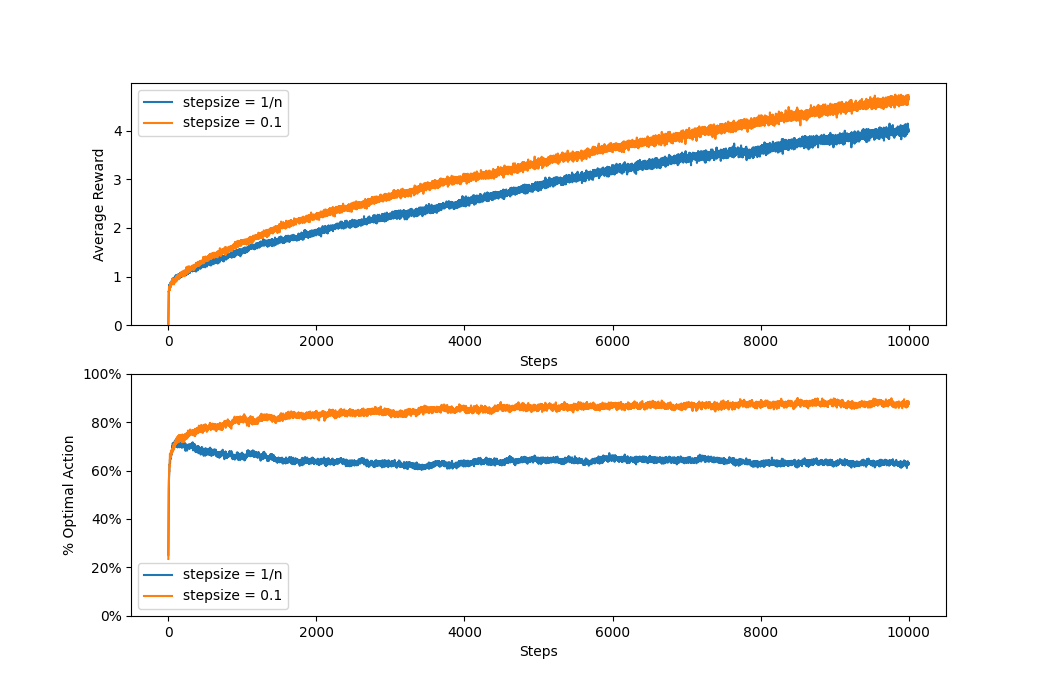
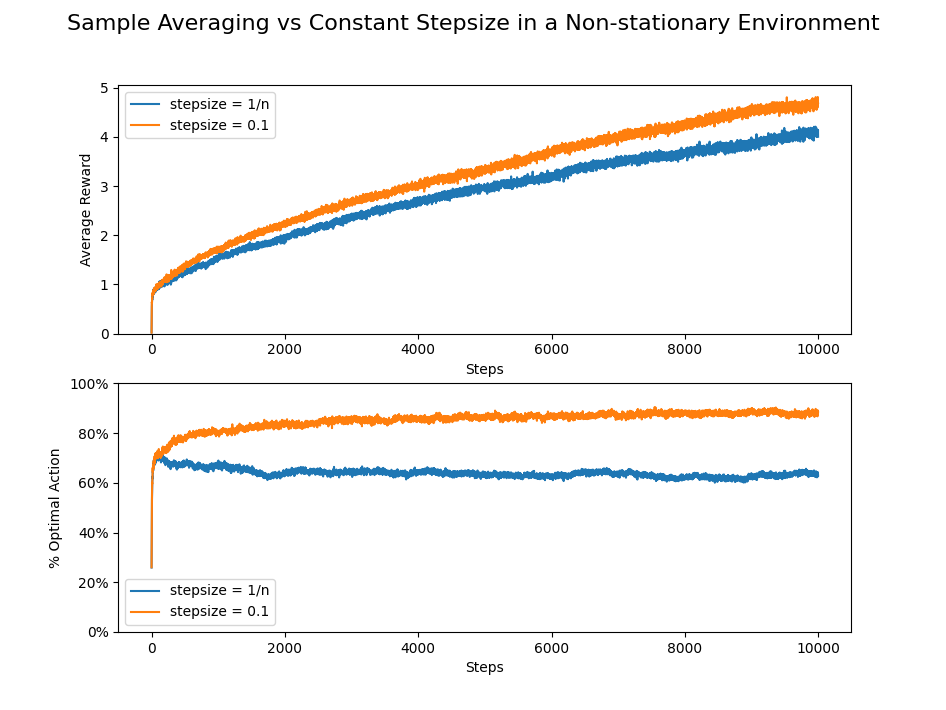
add titles to figures

diff --git a/egreedy.py b/egreedy.py
@@ -113,17 +113,20 @@ def run_experiment(agents: list[eGreedy], environment, steps=1000):
     return average_reward, optimal_pulls
 
 
-def graph_results(average_reward, optimal_pulls, legend, save_loc):
+def graph_results(average_reward, optimal_pulls, title, legend, save_loc):
     """Graph results based on Figure 2.2 of the textbook
 
     Args:
         average_reward (list[numpy.ndarray]): list of xy plots for number of steps vs average reward
         optimal_pulls (list[numpy.ndarray]): list of xy plots for number of steps vs % optimal action
+        title (str): title of the graph
         legend (list[eGreedy | str]): legend for the graph
         save_loc (str): location to save the figure
     """
 
     fig, (ax1, ax2) = plt.subplots(2)
+
+    fig.suptitle(title, fontsize=16)
 
     # Graph 2.2: Average Reward
     for line in average_reward:
@@ -161,7 +164,8 @@ def compare_stationary_eps():
     # run the experiment!!
     print("Running Experiment...")
     average_reward, optimal_pulls = run_experiment(agents, environment)  # can change # of steps here (default 1000)
-    graph_results([average_reward], [optimal_pulls], agents, "figures/2.2_comparison.png")
+    title = "Different Epsilon Values in a Stationary Environment"
+    graph_results([average_reward], [optimal_pulls], title, agents, "figures/2.2_comparison.png")
     print()
 
 
@@ -177,10 +181,11 @@ def compare_envs():
 
     average_reward = [s_reward, n_reward]
     optimal_pulls = [s_optimal, n_optimal]
+    title = "eGreedy with ε=0.1 in Stationary and Non-stationary Environments"
     legend = ["Stationary", "Nonstationary"]
     save_loc = "figures/egreedy_environment_comparison.png"
 
-    graph_results(average_reward, optimal_pulls, legend, save_loc)
+    graph_results(average_reward, optimal_pulls, title, legend, save_loc)
 
 
 def compare_ns_stepsizes():
@@ -195,10 +200,11 @@ def compare_ns_stepsizes():
 
     average_reward = [sa_reward, erwa_reward]
     optimal_pulls = [sa_optimal, erwa_optimal]
+    title = "Sample Averaging vs Constant Stepsize in a Non-stationary Environment"
     legend = ["stepsize = 1/n", "stepsize = 0.1"]
     save_loc = "figures/nonstationary_stepsize_comparison.png"
 
-    graph_results(average_reward, optimal_pulls, legend, save_loc)
+    graph_results(average_reward, optimal_pulls, title, legend, save_loc)
 
 
 def main():
